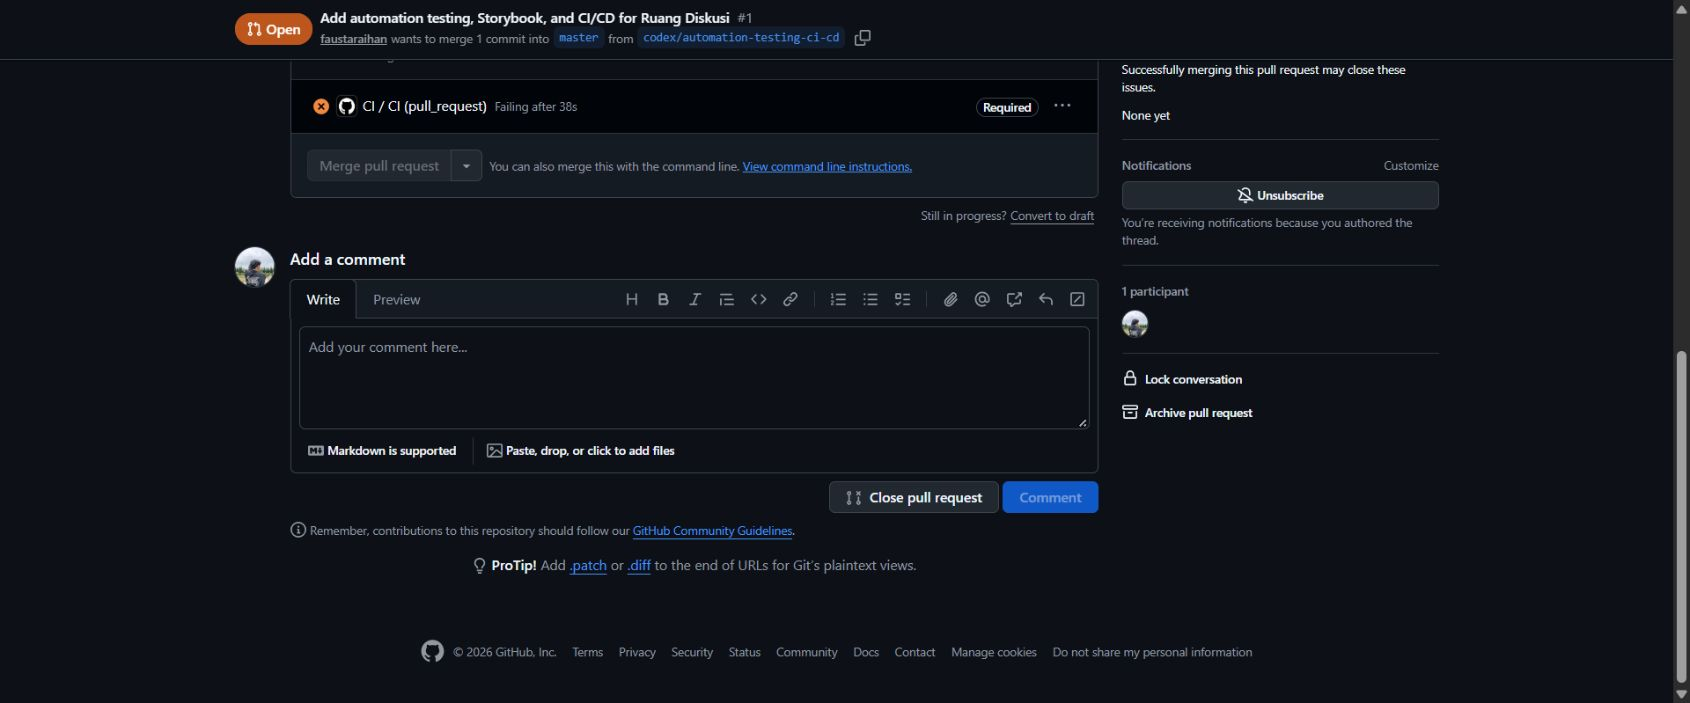
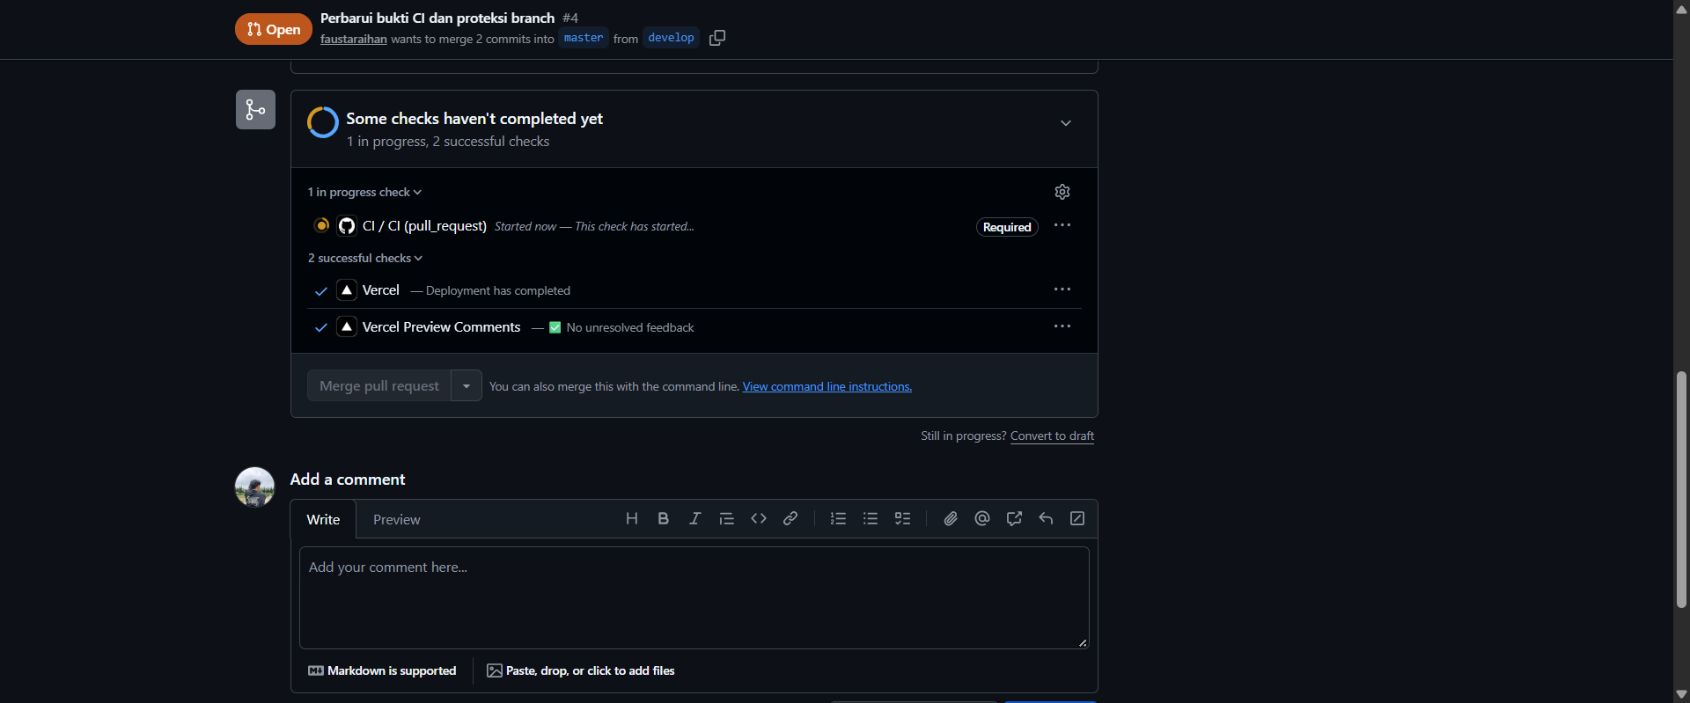
docs: perbarui screenshot checks dan proteksi di halaman PR

diff --git a/SUBMISSION_NOTES.md b/SUBMISSION_NOTES.md
@@ -24,8 +24,9 @@ Lint, build aplikasi, dan build Storybook berhasil. Storybook berisi tujuh stori
 ## CI dan proteksi branch
 
 - PR implementasi: https://github.com/faustaraihan/forum-diskusi-submission/pull/1
-- CI gagal: https://github.com/faustaraihan/forum-diskusi-submission/actions/runs/37469129459
-- CI berhasil: https://github.com/faustaraihan/forum-diskusi-submission/actions/runs/37469820003
+- PR bukti screenshot: https://github.com/faustaraihan/forum-diskusi-submission/pull/4
+- CI gagal pada PR bukti: https://github.com/faustaraihan/forum-diskusi-submission/actions/runs/37482506512
+- CI berhasil pada PR bukti: https://github.com/faustaraihan/forum-diskusi-submission/actions/runs/37482895631
 
 Untuk mengambil bukti CI gagal, satu assertion autentikasi sengaja dibuat salah. Run tersebut menghasilkan satu test gagal dan 78 test lulus. Assertion kemudian diperbaiki sebelum PR digabung.
 
@@ -36,6 +37,8 @@ Bukti screenshot ada di:
 - `screenshots/1_ci_check_error.jpg`
 - `screenshots/2_ci_check_pass.jpg`
 - `screenshots/3_branch_protection.jpg`
+
+Ketiga screenshot diambil dari panel checks dan merge pada halaman PR #4, branch `develop` ke `master`. Bukti proteksi menunjukkan label Required pada CI dan tombol merge yang nonaktif saat CI belum selesai. Tampilan GitHub saat ini berbeda dari gambar contoh panduan, tetapi status di screenshot berasal langsung dari PR.
 
 Ketiganya sudah masuk ZIP. Ada juga screenshot halaman login, Storybook, dan aplikasi yang sudah deploy. Kriteria submission sebelumnya dicatat di `docs/previous-submission-audit.md`.
 

diff --git a/screenshots/README.md b/screenshots/README.md
@@ -2,8 +2,8 @@
 
 Folder ini digunakan untuk screenshot asli dari repository `faustaraihan/forum-diskusi-submission`:
 
-1. `1_ci_check_error.jpg`: CI gagal karena assertion test gagal.
-2. `2_ci_check_pass.jpg`: CI lolos setelah test diperbaiki.
-3. `3_branch_protection.jpg`: halaman PR menunjukkan proteksi `master` dan required check.
+1. `1_ci_check_error.jpg`: panel checks di halaman PR menunjukkan CI gagal dan tombol merge nonaktif.
+2. `2_ci_check_pass.jpg`: panel checks di halaman PR menunjukkan seluruh checks lulus setelah test diperbaiki.
+3. `3_branch_protection.jpg`: panel PR menunjukkan check `CI` berlabel Required dan tombol merge nonaktif saat check belum selesai.
 
-Bukti dibuat dari halaman GitHub setelah run terkait selesai. File ini bukan pengganti ketiga screenshot. URL run, PR, dan status verifikasinya dicatat pada `SUBMISSION_NOTES.md`.
+Bukti diambil langsung dari halaman PR #4, branch `develop` ke `master`. Screenshot gagal/lolos diambil setelah run selesai; screenshot proteksi diambil saat CI belum selesai. URL run dan PR dicatat pada `SUBMISSION_NOTES.md`.
